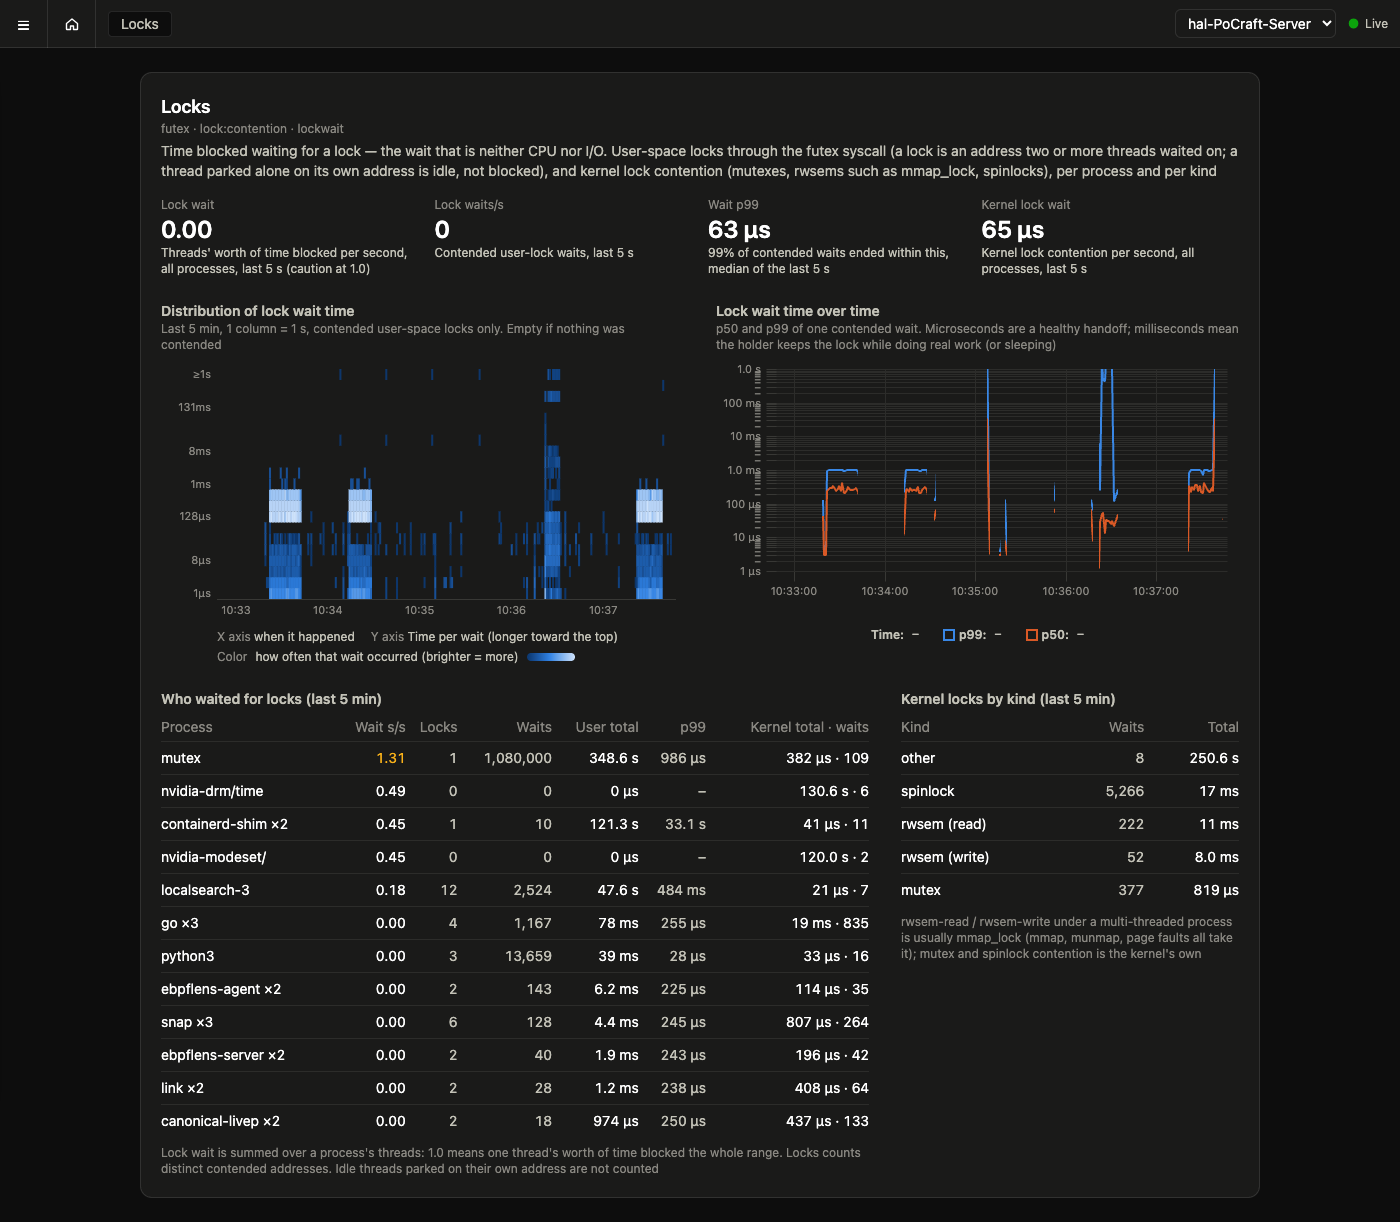
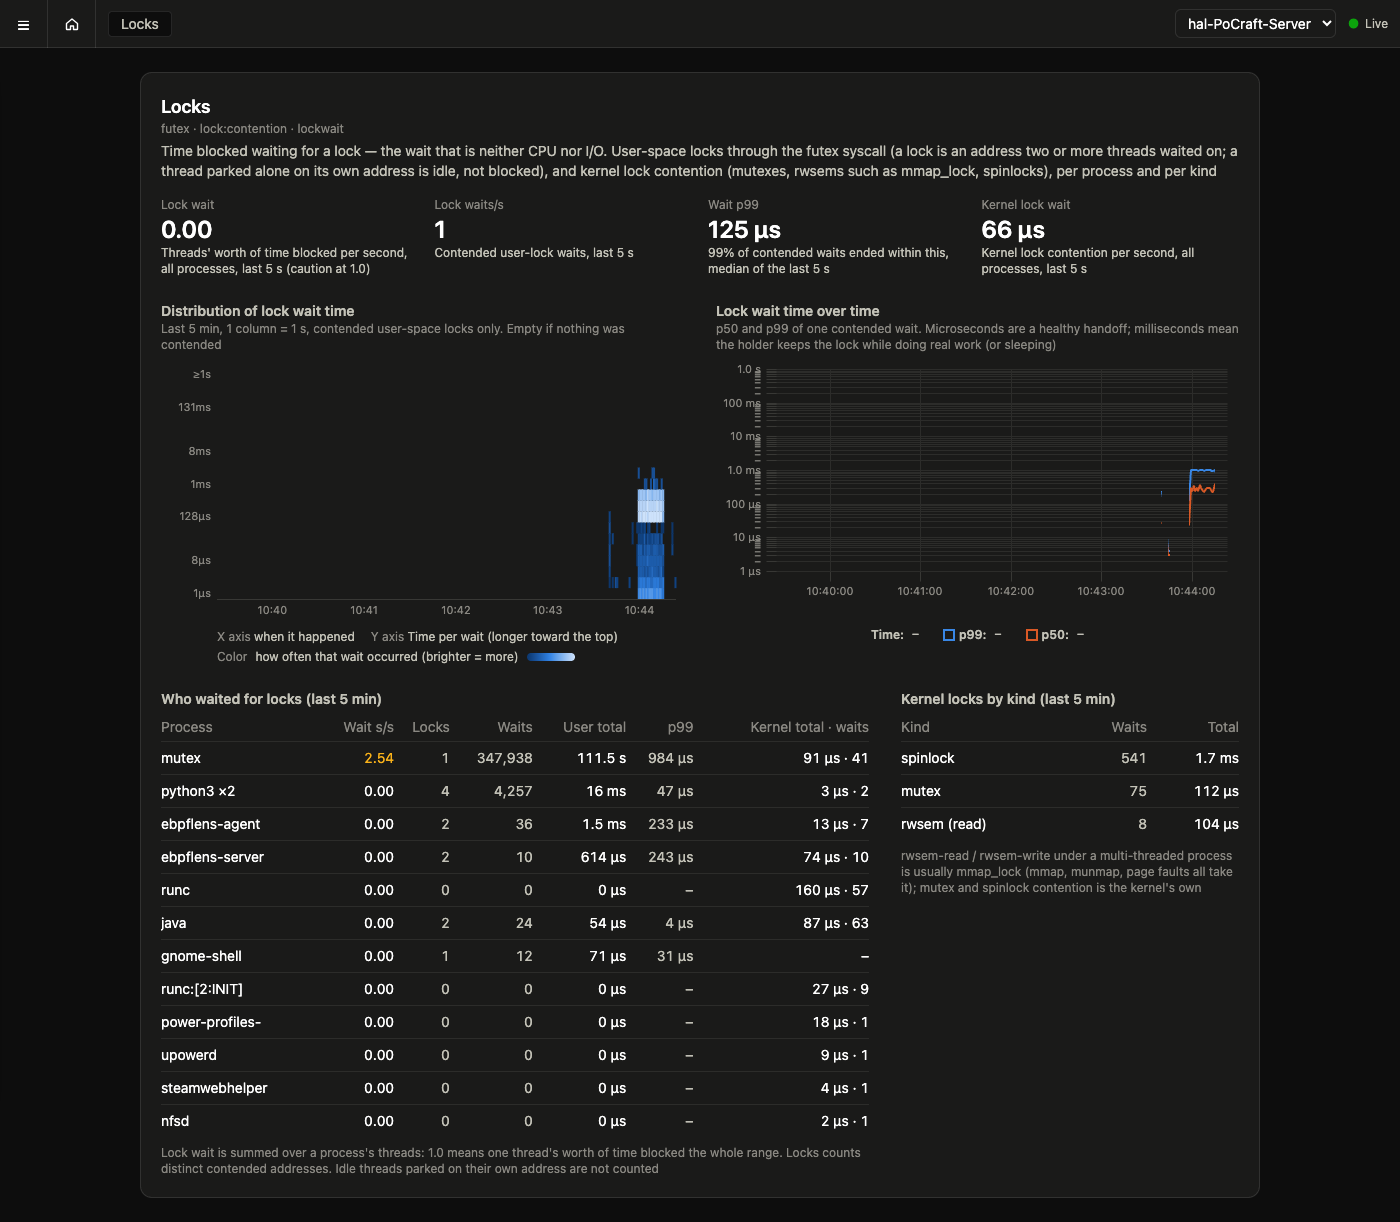
lockwait: cap one kernel lock wait at a second too; fresh screenshots
A driver thread sleeping on a mutex for two minutes while waiting for an event showed as 130 s of kernel
lock contention in the second it woke (nvidia-drm/time). The same one-second cap as for futex waits.

diff --git a/internal/probe/lockwait/lockwait.bpf.c b/internal/probe/lockwait/lockwait.bpf.c
@@ -257,6 +257,10 @@ int BPF_PROG(handle_contention_end, void *lock, int ret)
 	if (!s)
 		return 0;
 	delta = bpf_ktime_get_ns() - s->ts;
+	// Same cap as for user-space locks: a driver thread that sleeps on a mutex for two minutes waiting for an
+	// event is not two minutes of contention (seen on the test host: nvidia-drm/time, 130 s in 6 waits)
+	if (delta > 1000000000ULL)
+		delta = 1000000000ULL;
 	kind = kind_of(s->flags);
 	bpf_map_delete_elem(&kstart, &tid);
 	kv = bpf_map_lookup_elem(&kinds, &kind);
